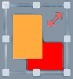
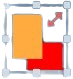
Implementata la rotation per figure composte

diff --git a/src/main/java/it/unisa/software_architecture_design/drawsnapdrawingtool/forme/FormaSelezionataDecorator.java b/src/main/java/it/unisa/software_architecture_design/drawsnapdrawingtool/forme/FormaSelezionataDecorator.java
@@ -80,6 +80,10 @@ public class FormaSelezionataDecorator extends FormaDecorator{
         getForma().proportionalResize(proporzione);
     }
 
+    public void setAngoloInclinazione(double angoloDiInclinazione){
+        getForma().setAngoloInclinazione(angoloDiInclinazione);
+    }
+
 
     /**
      * Disegna intorno alla figura un bordo evidenziato per indicare che la

diff --git a/src/main/java/it/unisa/software_architecture_design/drawsnapdrawingtool/forme/FormaComposta.java b/src/main/java/it/unisa/software_architecture_design/drawsnapdrawingtool/forme/FormaComposta.java
@@ -116,4 +116,10 @@ public class FormaComposta extends Forma{
             f.specchia();
         }
     }
+
+    public void setAngoloInclinazione(double angoloDiInclinazione){
+        for(Forma f:forme){
+            f.setAngoloInclinazione(angoloDiInclinazione);
+        }
+    }
 }
